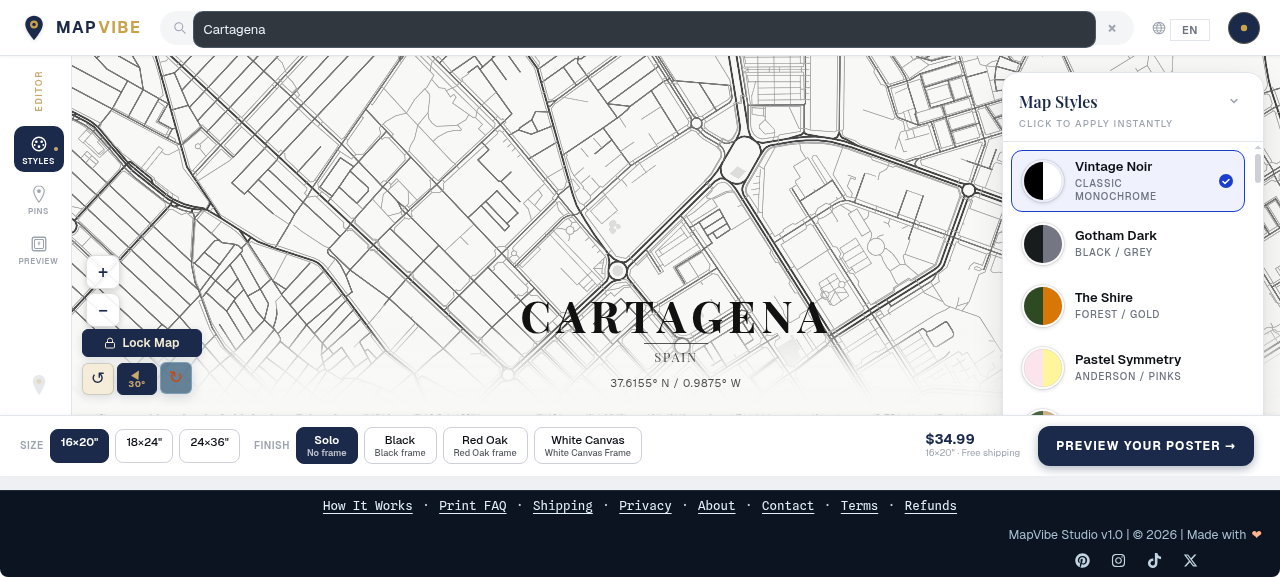
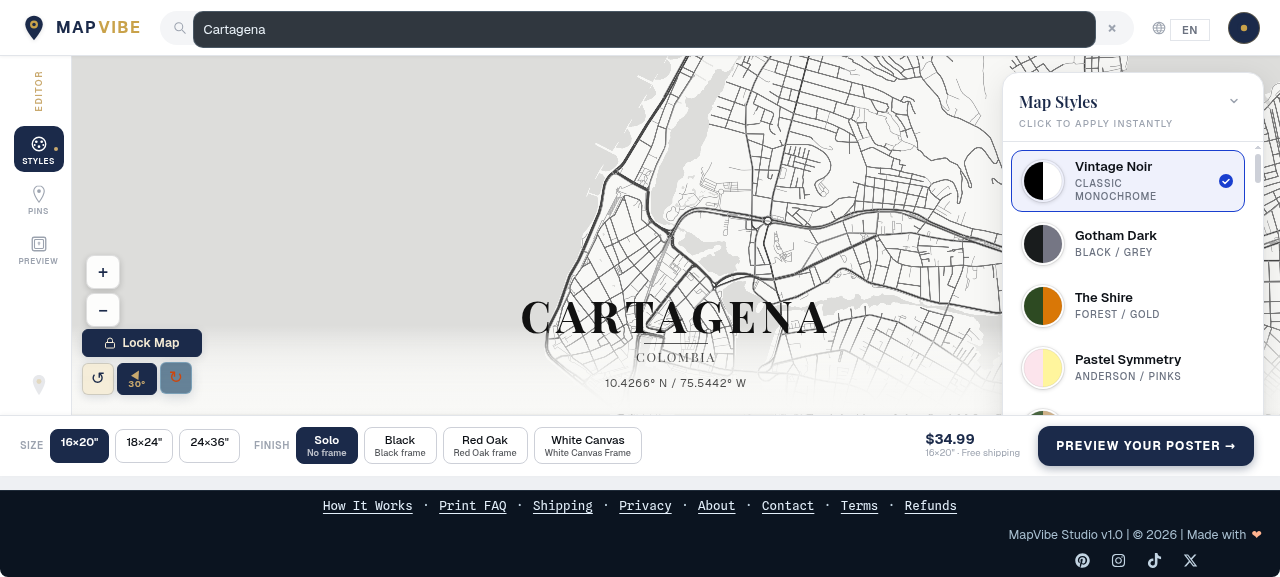
fix: gift-that-carries-home — replace Cartagena Spain with Cartagena de Indias, Colombia (223KB)

Changed region(s): [[0.0312, 0.0936, 1.0, 0.6863], [0.9688, 0.5615, 1.0, 0.6239]]

diff --git a/docs/en/blog/expat-gifts/gift-that-carries-home.md b/docs/en/blog/expat-gifts/gift-that-carries-home.md
@@ -46,7 +46,7 @@ It says: I knew exactly where you were from. I looked it up. I made something ju
 
 ![Latin city map print — Mediterranean Vibes 30° bearing](/assets/images/gift-that-carries-home_latin-city-med-vibes-30deg.png)
 
-*Cartagena (Spain) at 30° in Mediterranean Vibes — warm terracotta tones, coastal geometry, the kind of print that stops people mid-conversation.*
+*Cartagena de Indias, Colombia at 30° in Mediterranean Vibes — the Old City's coral-and-cream geometry, warm coastal light, the kind of print that stops people mid-conversation.*
 
 ---
 